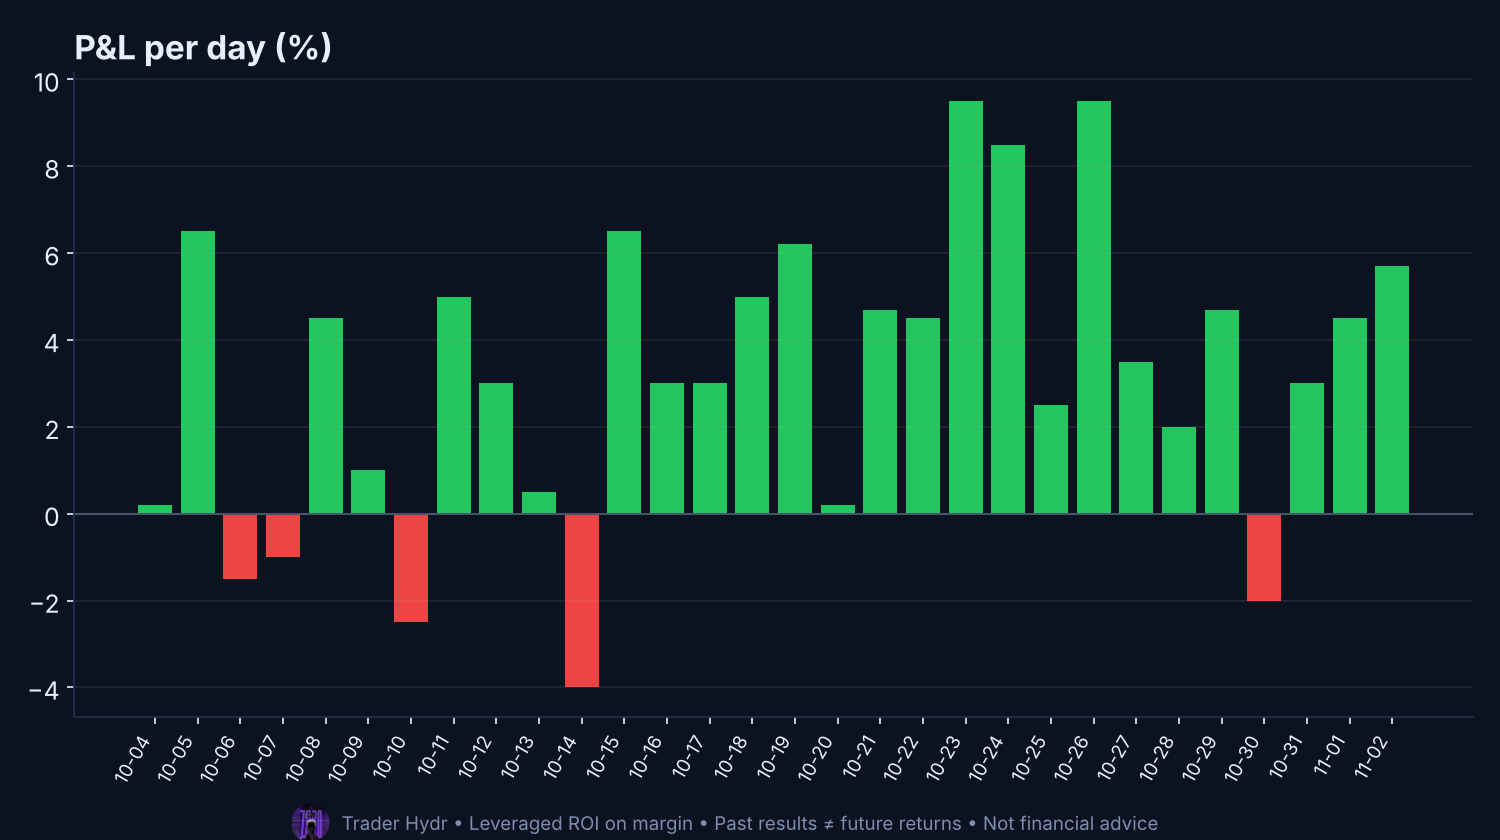
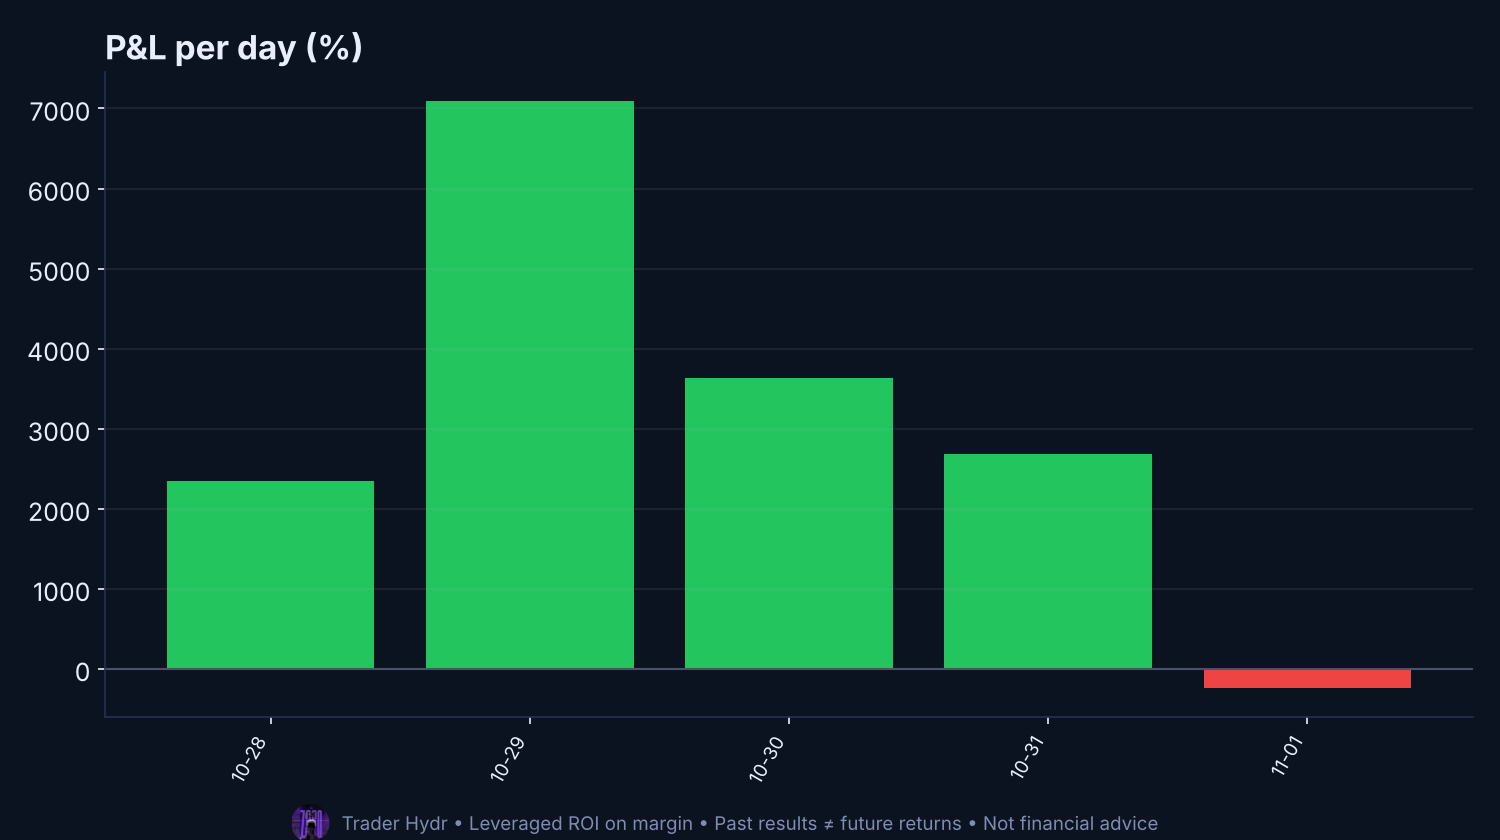
Add Cornix CSV backfill importer and --no-fetch report mode
Claude-Session: https://claude.ai/code/session_01Ru93sGNHyse7JWzhZPi6gJ

diff --git a/src/import_csv.py b/src/import_csv.py
@@ -1,0 +1,56 @@
+"""Backfill trade history from a Cornix 'signals' CSV export.
+
+    python -m src.import_csv export.csv [--tz UTC] [--until 2026-11-02] [--out data/trades.json]
+
+Imports only signals that actually ENTERED and have FINISHED (>=1 filled entry, status not Buy/Sell = still open).
+Open trades and never-entered signals are skipped. Close time = signal time + Duration.
+Use --until so the import stops where your live Telegram pipeline starts (the two sources use different ids,
+so overlapping periods would be counted twice).
+"""
+import argparse, csv, json, os, re
+from datetime import datetime, timedelta
+from zoneinfo import ZoneInfo
+
+
+def _mins(s):
+    units = {"day": 1440, "d": 1440, "hr": 60, "h": 60, "min": 1, "m": 1}
+    return sum(int(n) * units[u] for n, u in re.findall(r"(\d+)\s*(day|d|hr|h|min|m)\b", s or ""))
+
+
+def load(path, tz="UTC"):
+    z = ZoneInfo(tz)
+    out, skipped = [], {"open": 0, "never_entered": 0}
+    for r in csv.DictReader(open(path, encoding="utf-8-sig")):
+        status = r["Status"].split("(")[0].strip()
+        if int(r["Number of Filled Entry Targets"] or 0) == 0:
+            skipped["never_entered"] += 1; continue
+        if status in ("Buy", "Sell"):
+            skipped["open"] += 1; continue
+        t0 = datetime.fromisoformat(r["Date"]).replace(tzinfo=z)
+        close = t0 + timedelta(minutes=_mins(r["Duration"]))
+        sym = r["Symbol"].replace("/", "").upper()
+        out.append({"id": f"csv:{r['Date']}:{sym}:{r['Direction']}", "date": close.isoformat(), "symbol": sym,
+                    "side": r["Direction"].upper(), "pnl_pct": float(r["Signal Gained Profit %"]), "status": status})
+    return out, skipped
+
+
+def main():
+    ap = argparse.ArgumentParser()
+    ap.add_argument("csv"); ap.add_argument("--tz", default="UTC", help="time zone of the Date column in the export")
+    ap.add_argument("--until", help="only keep trades closed before this date (YYYY-MM-DD, in --tz)")
+    ap.add_argument("--out", default=os.getenv("HISTORY_PATH", "data/trades.json"))
+    a = ap.parse_args()
+    trades, skipped = load(a.csv, a.tz)
+    if a.until:
+        cut = datetime.fromisoformat(a.until).replace(tzinfo=ZoneInfo(a.tz))
+        trades = [t for t in trades if datetime.fromisoformat(t["date"]) < cut]
+    hist = json.load(open(a.out)) if os.path.exists(a.out) else []
+    seen = {t.get("id") for t in hist}
+    new = [t for t in trades if t["id"] not in seen]
+    os.makedirs(os.path.dirname(a.out) or ".", exist_ok=True)
+    json.dump(hist + new, open(a.out, "w"), indent=1)
+    print(f"imported {len(new)} closed trades (skipped: {skipped}) -> {a.out}  [{len(hist) + len(new)} total]")
+
+
+if __name__ == "__main__":
+    main()

diff --git a/main.py b/main.py
@@ -10,11 +10,13 @@ from src import config, stats, charts, caption
 from src.periods import PERIODS, window
 
 
-def load_history(path="data/trades.json"):
+def load_history(path=None):
+    path = path or os.getenv("HISTORY_PATH", "data/trades.json")
     return json.load(open(path)) if os.path.exists(path) else []
 
 
-def save_history(trades, path="data/trades.json"):
+def save_history(trades, path=None):
+    path = path or os.getenv("HISTORY_PATH", "data/trades.json")
     os.makedirs("data", exist_ok=True)
     json.dump(trades, open(path, "w"), indent=1)
 
@@ -130,6 +132,7 @@ def run_scenario(a):
 def main():
     ap = argparse.ArgumentParser()
     ap.add_argument("--demo", action="store_true")
+    ap.add_argument("--no-fetch", action="store_true", help="build the report from saved history only (no Telegram)")
     ap.add_argument("--scenario", metavar="SYMBOLS", help="market outlook chart(s), e.g. BTCUSDT,ETHUSDT")
     ap.add_argument("--signals", action="store_true", help="post charts for NEW signals instead of a report")
     ap.add_argument("--period", choices=list(PERIODS), default="daily")
@@ -145,6 +148,8 @@ def main():
 
     if a.demo:
         history = demo_trades()
+    elif a.no_fetch:
+        history = load_history()
     else:
         from src.fetch import fetch_messages
         from src.parse import parse_trades

diff --git a/README.md b/README.md
@@ -22,6 +22,10 @@ Set as repo **variables** (or `.env`): `TELEGRAM_LINK` (free channel), `PREMIUM_
 Referral/affiliate links automatically get a "I may earn a commission" disclosure line (required by most platforms and regulators). On X the links go in a reply under the post to keep the main post clean.
 Don't paste your private channel's open invite link anywhere public – use a join-request link or a payment/bot link so only paying members get in. Long captions (>1024 chars) are sent as a message right after the photo so nothing is cut off.
 
+## Backfill from a Cornix CSV export
+`python -m src.import_csv export.csv --tz UTC --until 2026-11-02` loads every signal that **entered and finished** (open trades and never-entered signals are skipped) into `data/trades.json`, so weekly / monthly / yearly reports have history from day one.
+Use `--until` to stop where the live Telegram pipeline starts (different ids, so overlap would double count). Build a report from saved history only: `python main.py --no-fetch --period weekly --date 2026-11-01`.
+
 ## Honesty rules for reports
 - Every report uses **all** closed trades, wins and losses (never only the teasers); cards and captions say "losses included".
 - The free sample signals (the 2 random ones posted each day) are **highlighted** in the results: a gold ★ outline on their tile in the daily grid, plus a line like `★ Free samples shared with you: OP +19.73% · BTC -44.01% · 1 still open`. Losing samples are shown exactly like winning ones.

diff --git a/memory.md b/memory.md
@@ -80,6 +80,11 @@ Automate a daily report from a **private Telegram trades channel**: parse closed
 - Final profit already cumulative for the trade (TP3 28.3% -> final 39.8%), so counting only the final post is right.
 - Real stop-loss post received & VERIFIED: `#AAVE/USDT Stop Target Hit ⛔ / Loss: 109.0687% 📉` (SHORT, 25X cross; loss can exceed 100% of margin). Also 'All entries achieved' is a harmless partial post. Tests added.
 
+## Update – Cornix CSV export analysed (1,411 signals, 28 Oct-1 Nov 2026, chat 'Botbac')
+- 1,348 entered+finished (995W/353L, 73.8% win, avg win +22.9 / avg loss -20.5, raw ROI sum +15,518%, PF 3.14), 50 still open, 13 never entered. ~340 closed trades/day -> tile grid unusable (>40 falls back to summary card). 1 Nov (partial day) was negative: -240% ROI, 38% wins.
+- Raw ROI sum across hundreds of trades is NOT an account return (headline '+15517.90%' is misleading): recommend MARGIN_PER_TRADE_PCT / account-return mode. USER HAS NOT YET ANSWERED which to show.
+- Added `src/import_csv.py` (backfill) and `main.py --no-fetch`; `HISTORY_PATH` env. CSV not stored in repo. Timezone of CSV Date column unknown (asked/assumed UTC).
+
 ## Decisions / assumptions
 - Trade format is **assumed** (e.g. `#BTCUSDT LONG closed ✅ +3.2%`, `+1.8R` with 1R = 1%). Needs adjusting to the user's real messages.
 - Results are in % (no position sizing/fees).
